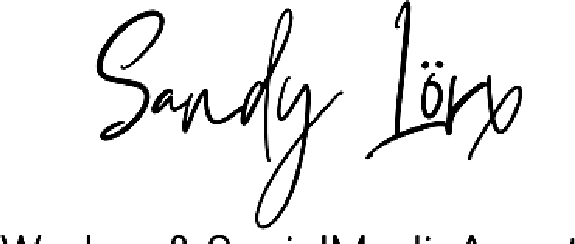
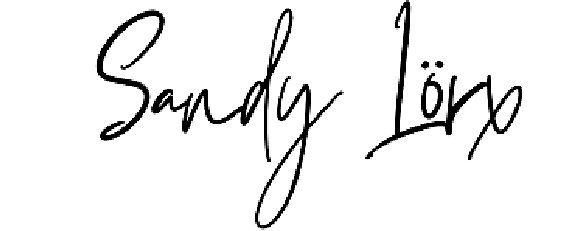
Unterschrift: abgeschnittene Textzeile aus signatur.png entfernt
Claude-Session: https://claude.ai/code/session_01LTkGqP8khUMw3CWRbYC2Nb

diff --git a/sdesign-startseite 2/assets/style.css b/sdesign-startseite 2/assets/style.css
@@ -120,7 +120,7 @@ a{color:inherit}
 .logo-stage .ring{position:absolute;inset:-4%;border-radius:50%;border:2px dashed color-mix(in srgb,var(--tuerkis) 55%,transparent);animation:spin 40s linear infinite}
 .logo-stage .ring.two{inset:-11%;border:1px solid color-mix(in srgb,var(--taupe) 45%,transparent);border-style:dotted;animation-duration:70s;animation-direction:reverse}
 .logo-stage .big{position:absolute;inset:0;width:100%;height:100%;border-radius:50%;box-shadow:0 30px 70px -30px rgba(29,102,114,.6);animation:pop 1.1s cubic-bezier(.2,1.2,.3,1) both, bob 7s 1.2s ease-in-out infinite}
-.logo-stage .sig{position:absolute;right:-6%;bottom:-6%;width:62%;aspect-ratio:575/244;background:var(--ink);-webkit-mask:url(signatur.png) center/contain no-repeat;mask:url(signatur.png) center/contain no-repeat;transform:rotate(-6deg);filter:drop-shadow(0 2px 0 var(--paper))}
+.logo-stage .sig{position:absolute;right:-6%;bottom:-6%;width:62%;aspect-ratio:575/231;background:var(--ink);-webkit-mask:url(signatur.png) center/contain no-repeat;mask:url(signatur.png) center/contain no-repeat;transform:rotate(-6deg);filter:drop-shadow(0 2px 0 var(--paper))}
 .orbit-dot{position:absolute;inset:-4%;animation:spin 14s linear infinite}
 .orbit-dot::before{content:"";position:absolute;top:-7px;left:50%;width:14px;height:14px;margin-left:-7px;border-radius:50%;background:var(--sun);box-shadow:0 0 0 5px color-mix(in srgb,var(--sun) 25%,transparent)}
 @keyframes spin{to{transform:rotate(360deg)}}
@@ -259,7 +259,7 @@ section{position:relative}
 .about-copy h2{font-size:var(--s-xl)}
 .about-copy p{color:var(--ink-soft);max-width:62ch}
 .about-copy .strong{color:var(--ink);font-weight:500;font-size:var(--s-md)}
-.sign{width:min(260px,70%);aspect-ratio:575/244;background:var(--ink);-webkit-mask:url(signatur.png) left center/contain no-repeat;mask:url(signatur.png) left center/contain no-repeat}
+.sign{width:min(260px,70%);aspect-ratio:575/231;background:var(--ink);-webkit-mask:url(signatur.png) left center/contain no-repeat;mask:url(signatur.png) left center/contain no-repeat}
 .creds{display:flex;flex-wrap:wrap;gap:.5rem;margin-top:.4rem}
 .creds span{padding:.45rem .9rem;border-radius:999px;background:var(--paper);font-size:var(--s-xs);color:var(--ink-soft);border:1px solid color-mix(in srgb,var(--taupe) 35%,transparent)}
 @media (max-width:760px){.about-grid{grid-template-columns:1fr;justify-items:center}.about-copy{justify-items:start}}
